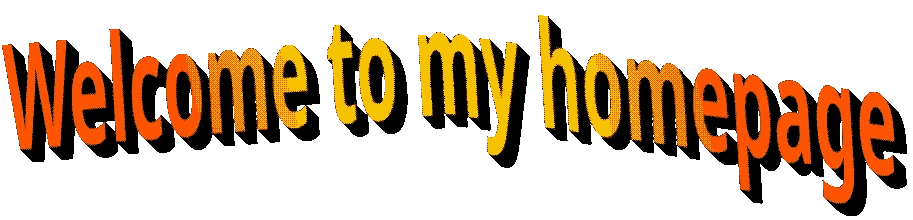
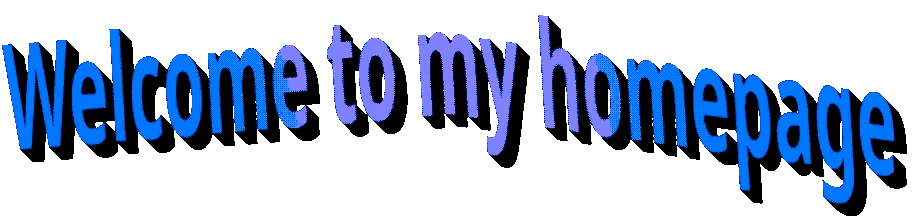
adjust font spacing. change background image and accent colors to blue.

Changed region(s): [[0.0, 0.0545, 0.9814, 0.9273]]

diff --git a/src/components/retro/sections/MainSection/HyperLinkGroup/styles.module.scss b/src/components/retro/sections/MainSection/HyperLinkGroup/styles.module.scss
@@ -21,6 +21,19 @@
 
   font-size: 1.2rem;
   font-weight: 900;
+
+  @media screen and (prefers-reduced-motion: no-preference) {
+    animation: rainbow 3s infinite steps(20);
+  }
+}
+
+@keyframes rainbow {
+  0% {
+    filter: hue-rotate(0deg);
+  }
+  100% {
+    filter: hue-rotate(360deg);
+  }
 }
 
 .button-label {

diff --git a/src/components/retro/sections/MainSection/WelcomeText/styles.module.scss b/src/components/retro/sections/MainSection/WelcomeText/styles.module.scss
@@ -13,7 +13,9 @@
 .glow {
   position: absolute;
 
-  animation: glowing-animation 2s infinite steps(5, end);
+  @media screen and (prefers-reduced-motion: no-preference) {
+    animation: glowing-animation 2s infinite steps(5, end);
+  }
 }
 
 @keyframes glowing-animation {

diff --git a/src/styles/retro/_palette.scss b/src/styles/retro/_palette.scss
@@ -7,6 +7,6 @@ $red: red;
 $orange: orange;
 $yellow: yellow;
 $green: rgb(0, 255, 0);
-$lightblue: rgb(26, 105, 202);
+$lightblue: rgb(85, 162, 255);
 $blue: blue;
 $purple: purple;

diff --git a/src/app/(retro)/retro-layout.scss b/src/app/(retro)/retro-layout.scss
@@ -12,6 +12,8 @@ body {
 
   color: palette.$white;
   font-size: 14pt;
+  letter-spacing: -0.03em;
+  word-spacing: -0.1em;
 
   image-rendering: pixelated;
 }

diff --git a/src/components/retro/sections/MainSection/styles.module.scss b/src/components/retro/sections/MainSection/styles.module.scss
@@ -14,7 +14,7 @@
 .marquee-text {
   font-weight: 900;
 
-  color: palette.$red;
+  color: palette.$lightblue;
 }
 
 .thanks-image {
